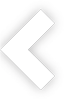
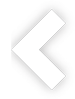
added room to fix shadow on arrows

diff --git a/css/dragdealer.css b/css/dragdealer.css
@@ -33,7 +33,7 @@ body {
 #previousButton {
 	background: url('assets/left-arrow.png') no-repeat 0 0 ;
 	
-	width: 100px;
+	width: 75px;
 	height: 100px;
 	position: absolute;
 	top: 540px;
@@ -42,11 +42,11 @@ body {
 
 #nextButton {
 	background: url('assets/right-arrow.png') no-repeat 0 0 ;
-	width: 100px;
+	width: 75px;
 	height: 100px;
 	position: absolute;
 	top: 540px;
-	left: 970px;
+	left: 995px;
 }
 
 .yesno {

diff --git a/js/dragdealer.js b/js/dragdealer.js
@@ -476,10 +476,10 @@ Dragdealer.prototype = {
 		}
 		//$('#nextButton').append(cursorx + ' ');
 
-		if (cursorx > 973 && cursorx < 1073) {
+		if (cursorx > 996 && cursorx < 1068) {
 			
 			
-		} else  if(cursorx > 10 && cursorx < 109)  {
+		} else  if(cursorx > 10 && cursorx < 83)  {
 			
 		} else {
 			if (differenceoffset < -150) {

diff --git a/index.php b/index.php
@@ -35,7 +35,7 @@
 		</div>
 	</div>
 
-	<div style="display: block;" id="slideshow-menu-wrapper"
+<!-- <div style="display: block;" id="slideshow-menu-wrapper"
 		class="top-spaced right-float">
 		<div id="slideshow-menu-cursor" class="cursor" style="top: 66px;"></div>
 		<ul id="slideshow-menu">
@@ -63,7 +63,7 @@
 
 
 		</ul>
-	</div>
+	</div> -->	
 
 	<div id="previousButton"
 		style="">
